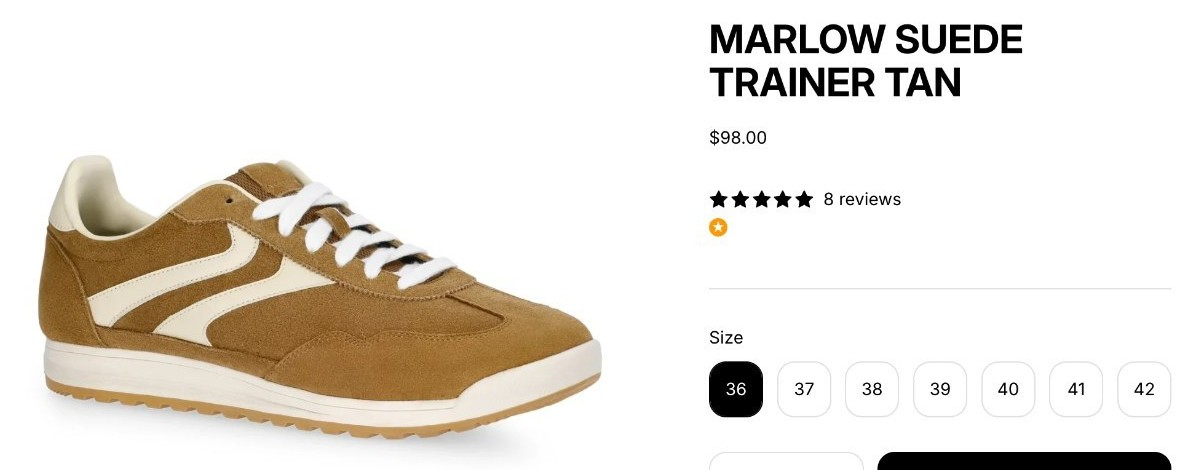
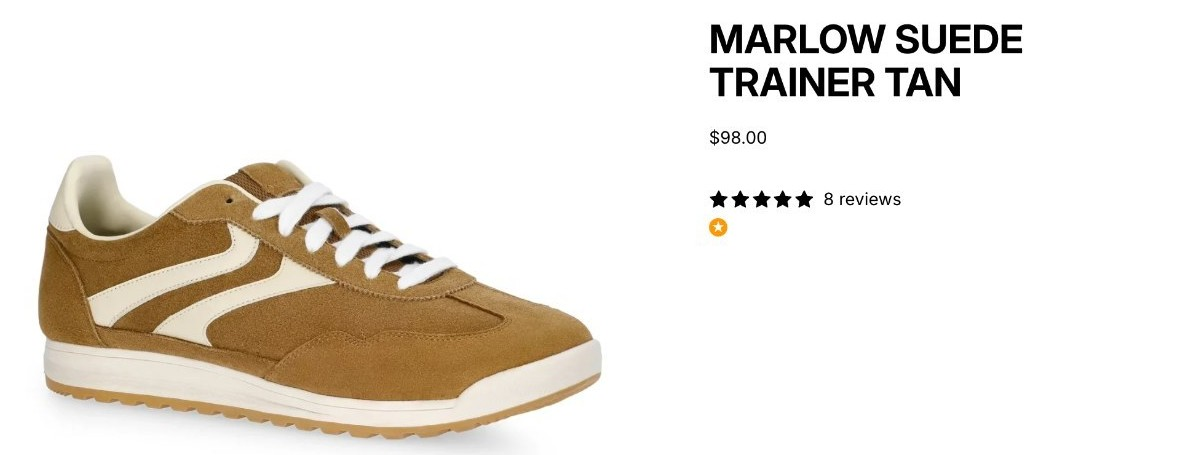
Website v2.0.1: four fixes from Earl and Claude.ai's review (2026-11-27)
1. Closing film still: the line large, with the film's caption (film stays v1.1).
2. Channel diagram is a list below 600 px; desktop unchanged.
3. Hero ends just under the line: no size row, no Add to cart.
4. Setup picture: the editor panel only, the + below Review stars and the 6thSTAR line block in place.

diff --git a/index.html b/index.html
@@ -32,7 +32,7 @@
     </div>
   </div>
   <figure class="shot open hero-shot">
-    <div class="frame"><picture><source media="(max-width:700px)" srcset="/assets/marlow-m.jpg"><img src="/assets/marlow-hero.jpg" alt="MARLOW SUEDE TRAINER TAN on 6thstar-sample: the photo, the title, the review stars, and the 6thSTAR line open under them" width="1200" height="470"></picture>
+    <div class="frame"><picture><source media="(max-width:700px)" srcset="/assets/marlow-hero-m.jpg"><img src="/assets/marlow-hero.jpg" alt="MARLOW SUEDE TRAINER TAN on 6thstar-sample: the photo, the title, the review stars, and the 6thSTAR line open under them" width="1200" height="455"></picture>
     <div class="line-pop">Great trainer… runs a little narrow across the foot…</div></div>
     <span class="tag">Sample store, made data</span>
   </figure>
@@ -83,7 +83,7 @@
       <li>You choose the channels: AI shoppers, product pages, descriptions, Instagram, Gorgias.</li>
     </ul>
   </div>
-  <div class="pic"><svg class="draw channels" viewBox="0 0 520 400" role="img" aria-label="The product record in the centre, with lines out to the product page, the description, AI shoppers through Shopify, the open web, Instagram and Gorgias">
+  <div class="pic"><div class="chan-wide"><svg class="draw channels" viewBox="0 0 520 400" role="img" aria-label="The product record in the centre, with lines out to the product page, the description, AI shoppers through Shopify, the open web, Instagram and Gorgias">
   <g stroke="#bdbdbd" stroke-width="1.5" fill="none">
     <path d="M260 200 L 92 64"/><path d="M260 200 L 428 64"/><path d="M260 200 L 52 200"/><path d="M260 200 L 468 200"/><path d="M260 200 L 92 336"/><path d="M260 200 L 428 336"/>
   </g>
@@ -98,6 +98,7 @@
     <text x="260" y="195" font-size="18" font-weight="500" fill="#1d1d1d">Product record</text><text x="260" y="220" font-size="14" fill="#555">your product's truth</text>
   </g>
 </svg></div>
+    <div class="chan-list" aria-hidden="true"><p class="rec">Product record</p><ul><li>Product page</li><li>Description</li><li>AI shoppers <span>through Shopify</span></li><li>Open web</li><li>Instagram</li><li>Gorgias</li></ul></div></div>
 </div></section>
 
 <section class="sec" id="get"><div class="in">
@@ -121,14 +122,16 @@
     <div class="acts"><a class="btn lg" data-install href="/beta/">Install 6thSTAR</a><a class="more" href="/demo/">Try the demo</a><a class="more" href="/setup/">See the setup guides</a></div>
     <p class="note">*Product upload time varies.</p>
   </div>
-  <figure class="pic guide-shot"><img src="/assets/guides/line-5.png" alt="The theme editor: the + just below Review stars, outlined, where the 6thSTAR line is added" width="480" height="300" loading="lazy">
-    <figcaption>Placing the line: the + just below Review stars.</figcaption></figure>
+  <figure class="pic guide-shot pair">
+    <div><img src="/assets/setup-plus.png" alt="The theme editor's panel: the + just below Review stars, outlined" width="368" height="200" loading="lazy"><p>Click the + below Review stars.</p></div>
+    <div><img src="/assets/setup-added.png" alt="The theme editor's panel: the 6thSTAR line block in place under Review stars, outlined" width="368" height="200" loading="lazy"><p>The 6thSTAR line, in place.</p></div>
+  </figure>
 </div></section>
 
 <section class="sec" id="story"><div class="in two">
   <div class="film" role="button" tabindex="0" aria-label="Watch The Whole Story, a 30-second film"
-       data-src="/assets/whole-story-v1-1.mp4" data-poster="/assets/whole-story-v1-1.jpg" data-vtt="/assets/whole-story-v1-1.vtt">
-    <img src="/assets/whole-story-v1-1.jpg" alt="The Whole Story: MARLOW's product page, with the 6thSTAR line open" width="1280" height="720" loading="lazy">
+       data-src="/assets/whole-story-v1-1.mp4" data-poster="/assets/whole-story-poster.jpg" data-vtt="/assets/whole-story-v1-1.vtt">
+    <img src="/assets/whole-story-poster.jpg" alt="The Whole Story: the 6thSTAR line, Great trainer… runs a little narrow across the foot…" width="1280" height="720" loading="lazy">
     <span class="play">Watch The Whole Story · 30 seconds</span>
   </div>
   <div class="words">

diff --git a/assets/site.css b/assets/site.css
@@ -282,3 +282,23 @@ body{color:#333;font-size:17.5px}
 .steps .pic{height:256px}
 .steps .pic .mini{max-width:290px}
 .sec .shot .frame{position:relative}
+
+/* v2.0.1 (review 2026-11-27): hero ends under the line; channels as a list on a phone; setup = the editor panel only */
+.hero-shot .line-pop{top:56%}
+@media (max-width:700px){.hero-shot .line-pop{top:76%}}
+.chan-list{display:none}
+@media (max-width:600px){
+  .chan-wide{display:none}
+  .chan-list{display:block;border:1px solid var(--rule);border-radius:14px;overflow:hidden}
+  .chan-list .rec{background:var(--line-bg);border-bottom:1px solid var(--line-edge);padding:14px 18px;font-weight:500;color:#111}
+  .chan-list ul{list-style:none}
+  .chan-list li{padding:12px 18px 12px 40px;border-top:1px solid var(--rule);position:relative;color:#333}
+  .chan-list li:first-child{border-top:0}
+  .chan-list li::before{content:"";position:absolute;left:18px;top:50%;width:10px;height:1.5px;background:#bdbdbd}
+  .chan-list li span{color:#666;font-size:15px}
+}
+.guide-shot.pair{display:grid;grid-template-columns:1fr 1fr;gap:1px;background:var(--rule)}
+.guide-shot.pair>div{background:#fff}
+.guide-shot.pair img{width:100%}
+.guide-shot.pair p{font-size:14px;color:#555;padding:10px 12px;border-top:1px solid var(--rule)}
+@media (min-width:900px){#story .two{grid-template-columns:1.25fr 1fr}}

diff --git a/site_src/make_home_pics.py b/site_src/make_home_pics.py
@@ -1,0 +1,58 @@
+#!/usr/bin/env python3
+"""Home v2.0.1 pictures (Earl + Claude.ai review 2026-11-27), from the real captures only. Run from the repo root.
+- marlow-hero.jpg / marlow-hero-m.jpg: MARLOW's page cropped so it ends just under the line (no size row, no Add to cart).
+  On the wide one the photo runs lower than the line, so the product column below the line is left white; nothing is drawn in.
+- setup-plus.png / setup-added.png: the theme editor's panel only (no store preview): the + below Review stars, then the
+  6thSTAR line block in place, each with the guides' thin gold outline.
+- whole-story-poster.jpg: the film's own line capture, large, on white, with the film's caption: a still that reads at a glance."""
+from pathlib import Path
+from PIL import Image, ImageDraw, ImageFont, ImageFilter
+
+ROOT = Path(__file__).resolve().parent.parent
+A = ROOT / "assets"
+CAPS = ROOT / "site_src" / "caps"
+GOLD = (255, 153, 0)
+
+# ── hero ──
+page = Image.open(A / "marlow.jpg").convert("RGB")            # 1250 x 700, 6thstar-sample, made data
+h = page.crop((40, 90, 1240, 545))                             # the whole photo; the shoe's sole ends ~525
+ImageDraw.Draw(h).rectangle((690, 345 - 90, h.width, h.height), fill=(255, 255, 255))   # the column under the stars: the line goes here
+h.save(A / "marlow-hero.jpg", quality=90)
+m = Image.open(A / "marlow-m.jpg").convert("RGB")             # 530 x 620, the phone crop
+m.crop((0, 0, 530, 360)).save(A / "marlow-hero-m.jpg", quality=90)
+print("hero", h.size)
+
+# ── setup pair ──
+def panel(cap, box, crop, out):
+    im = Image.open(CAPS / cap).convert("RGB")
+    d = ImageDraw.Draw(im)
+    w = 2
+    d.rounded_rectangle((box[0] - w, box[1] - w, box[2] + w, box[3] + w), radius=12, outline=GOLD, width=w)
+    im = im.crop(crop)
+    im = im.resize((im.width * 2, im.height * 2), Image.LANCZOS)    # shown about this size; keeps the panel's words readable
+    im.save(A / out, optimize=True)
+    print(out, im.size)
+
+panel("w1_plus.png", (106, 382, 140, 413), (28, 352, 212, 452), "setup-plus.png")
+panel("w1_added.png", (36, 399, 207, 421), (28, 352, 212, 452), "setup-added.png")
+
+# ── the closing film's still ──
+FONT = "/Users/tracyrosen/Library/Fonts/Roboto[wdth,wght].ttf"
+film_raw = Path.home() / "Desktop/Downloads - Chrome/6thSTAR_Whole_Story_v1_1/source/raw/z_open.png"
+line = Image.open(film_raw).convert("RGB").crop((88, 186, 790, 262))   # the line's row only, as in the film
+W, H = 1280, 720
+line = line.resize((1120, round(line.height * 1120 / line.width)), Image.LANCZOS)
+poster = Image.new("RGB", (W, H), "white")
+pad = 40
+sh = Image.new("L", (line.width + 2 * pad, line.height + 2 * pad), 0)
+ImageDraw.Draw(sh).rounded_rectangle((pad, pad + 10, pad + line.width, pad + 10 + line.height), 20, fill=70)
+sh = sh.filter(ImageFilter.GaussianBlur(22))
+x, y = (W - line.width) // 2, 250
+poster.paste((0, 0, 0), (x - pad, y - pad), sh.point(lambda v: v // 2))
+mask = Image.new("L", line.size, 0); ImageDraw.Draw(mask).rounded_rectangle((0, 0, line.width - 1, line.height - 1), 18, fill=255)
+poster.paste(line, (x, y), mask)
+f = ImageFont.truetype(FONT, 46); f.set_variation_by_axes([300, 100])
+cap = "6thSTAR adds the one thing they don't expect."
+ImageDraw.Draw(poster).text(((W - f.getlength(cap)) / 2, 470), cap, font=f, fill=(0, 0, 0))
+poster.save(A / "whole-story-poster.jpg", quality=90)
+print("poster", poster.size)

diff --git a/site_src/build.py b/site_src/build.py
@@ -114,7 +114,7 @@ HOME = head("6thSTAR — Reduce returns. Build trust.",
     </div>
   </div>
   <figure class="shot open hero-shot">
-    <div class="frame"><picture><source media="(max-width:700px)" srcset="/assets/marlow-m.jpg"><img src="/assets/marlow-hero.jpg" alt="MARLOW SUEDE TRAINER TAN on 6thstar-sample: the photo, the title, the review stars, and the 6thSTAR line open under them" width="1200" height="470"></picture>
+    <div class="frame"><picture><source media="(max-width:700px)" srcset="/assets/marlow-hero-m.jpg"><img src="/assets/marlow-hero.jpg" alt="MARLOW SUEDE TRAINER TAN on 6thstar-sample: the photo, the title, the review stars, and the 6thSTAR line open under them" width="1200" height="455"></picture>
     <div class="line-pop">{LINE}</div></div>
     <span class="tag">Sample store, made data</span>
   </figure>
@@ -150,7 +150,8 @@ HOME = head("6thSTAR — Reduce returns. Build trust.",
       <li>You choose the channels: AI shoppers, product pages, descriptions, Instagram, Gorgias.</li>
     </ul>
   </div>
-  <div class="pic">{CHANNELS_SVG}</div>
+  <div class="pic"><div class="chan-wide">{CHANNELS_SVG}</div>
+    <div class="chan-list" aria-hidden="true"><p class="rec">Product record</p><ul><li>Product page</li><li>Description</li><li>AI shoppers <span>through Shopify</span></li><li>Open web</li><li>Instagram</li><li>Gorgias</li></ul></div></div>
 </div></section>
 
 <section class="sec" id="get"><div class="in">
@@ -174,14 +175,16 @@ HOME = head("6thSTAR — Reduce returns. Build trust.",
     <div class="acts">{install()}<a class="more" href="/demo/">Try the demo</a><a class="more" href="/setup/">See the setup guides</a></div>
     <p class="note">*Product upload time varies.</p>
   </div>
-  <figure class="pic guide-shot"><img src="/assets/guides/line-5.png" alt="The theme editor: the + just below Review stars, outlined, where the 6thSTAR line is added" width="480" height="300" loading="lazy">
-    <figcaption>Placing the line: the + just below Review stars.</figcaption></figure>
+  <figure class="pic guide-shot pair">
+    <div><img src="/assets/setup-plus.png" alt="The theme editor's panel: the + just below Review stars, outlined" width="368" height="200" loading="lazy"><p>Click the + below Review stars.</p></div>
+    <div><img src="/assets/setup-added.png" alt="The theme editor's panel: the 6thSTAR line block in place under Review stars, outlined" width="368" height="200" loading="lazy"><p>The 6thSTAR line, in place.</p></div>
+  </figure>
 </div></section>
 
 <section class="sec" id="story"><div class="in two">
   <div class="film" role="button" tabindex="0" aria-label="Watch The Whole Story, a 30-second film"
-       data-src="/assets/whole-story-v1-1.mp4" data-poster="/assets/whole-story-v1-1.jpg" data-vtt="/assets/whole-story-v1-1.vtt">
-    <img src="/assets/whole-story-v1-1.jpg" alt="The Whole Story: MARLOW's product page, with the 6thSTAR line open" width="1280" height="720" loading="lazy">
+       data-src="/assets/whole-story-v1-1.mp4" data-poster="/assets/whole-story-poster.jpg" data-vtt="/assets/whole-story-v1-1.vtt">
+    <img src="/assets/whole-story-poster.jpg" alt="The Whole Story: the 6thSTAR line, Great trainer… runs a little narrow across the foot…" width="1280" height="720" loading="lazy">
     <span class="play">Watch The Whole Story · 30 seconds</span>
   </div>
   <div class="words">
